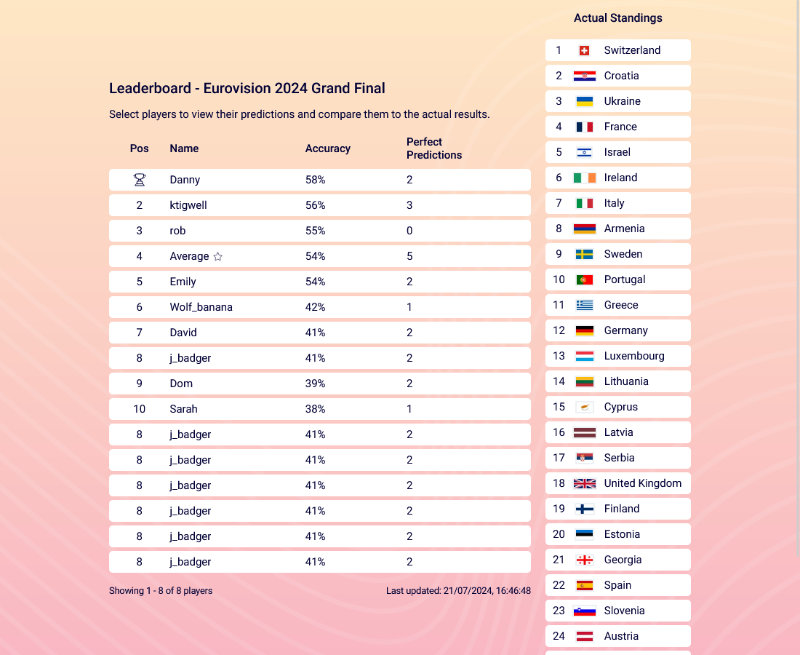
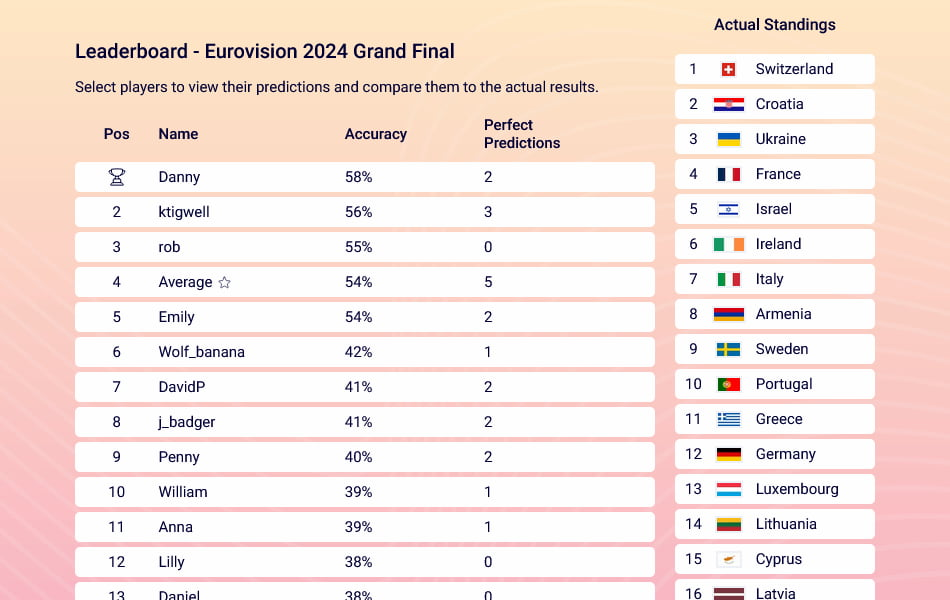
OG Image fixes
- Delete duplicate metadata creation
- Update og screenshots

diff --git a/app/api/og/route.tsx b/app/api/og/route.tsx
@@ -56,6 +56,7 @@ export async function GET(request: Request) {
               fontSize: title ? "72px" : "100px",
               lineHeight: "20px",
               marginTop: "50px",
+              marginBottom: title ? "25px" : "40px",
             }}>
             Predict The Standings
           </h1>
@@ -72,15 +73,17 @@ export async function GET(request: Request) {
             style={{
               display: "flex",
               position: "relative",
-              marginTop: "90px",
+              marginTop: "80px",
             }}>
             <img
-              width={800}
-              height={655}
+              width={950}
+              height={600}
               src={dataUrl}
               alt="Website image"
               style={{
                 zIndex: "2",
+                width: "800px",
+                height: "505px",
               }}
             />
             <svg
@@ -89,7 +92,7 @@ export async function GET(request: Request) {
                 maxWidth: "100%",
                 maxHeight: "100%",
                 left: "50%",
-                top: "-7.65%",
+                top: "-10%",
                 transform: "translateX(-50%)",
               }}
               width="830"

diff --git a/app/premier-league/[season]/predict/page.tsx b/app/premier-league/[season]/predict/page.tsx
@@ -23,10 +23,6 @@ import commonStyles from "@styles/common.module.scss";
 import { PageProps, CompetitionLink } from "@custom-types/misc";
 import { Entrant } from "@custom-types/game-types";
 
-export const metadata: Metadata = {
-  title: "Submit Your Premier League Predictions | Predict The Standings",
-};
-
 export const generateMetadata = async ({ params }: PageProps) => ({
   title: `Predict the PL ${params.season} season | Predict The Standings`,
   description: `Submit your predictions for the ${params.season} Premier League season`,
